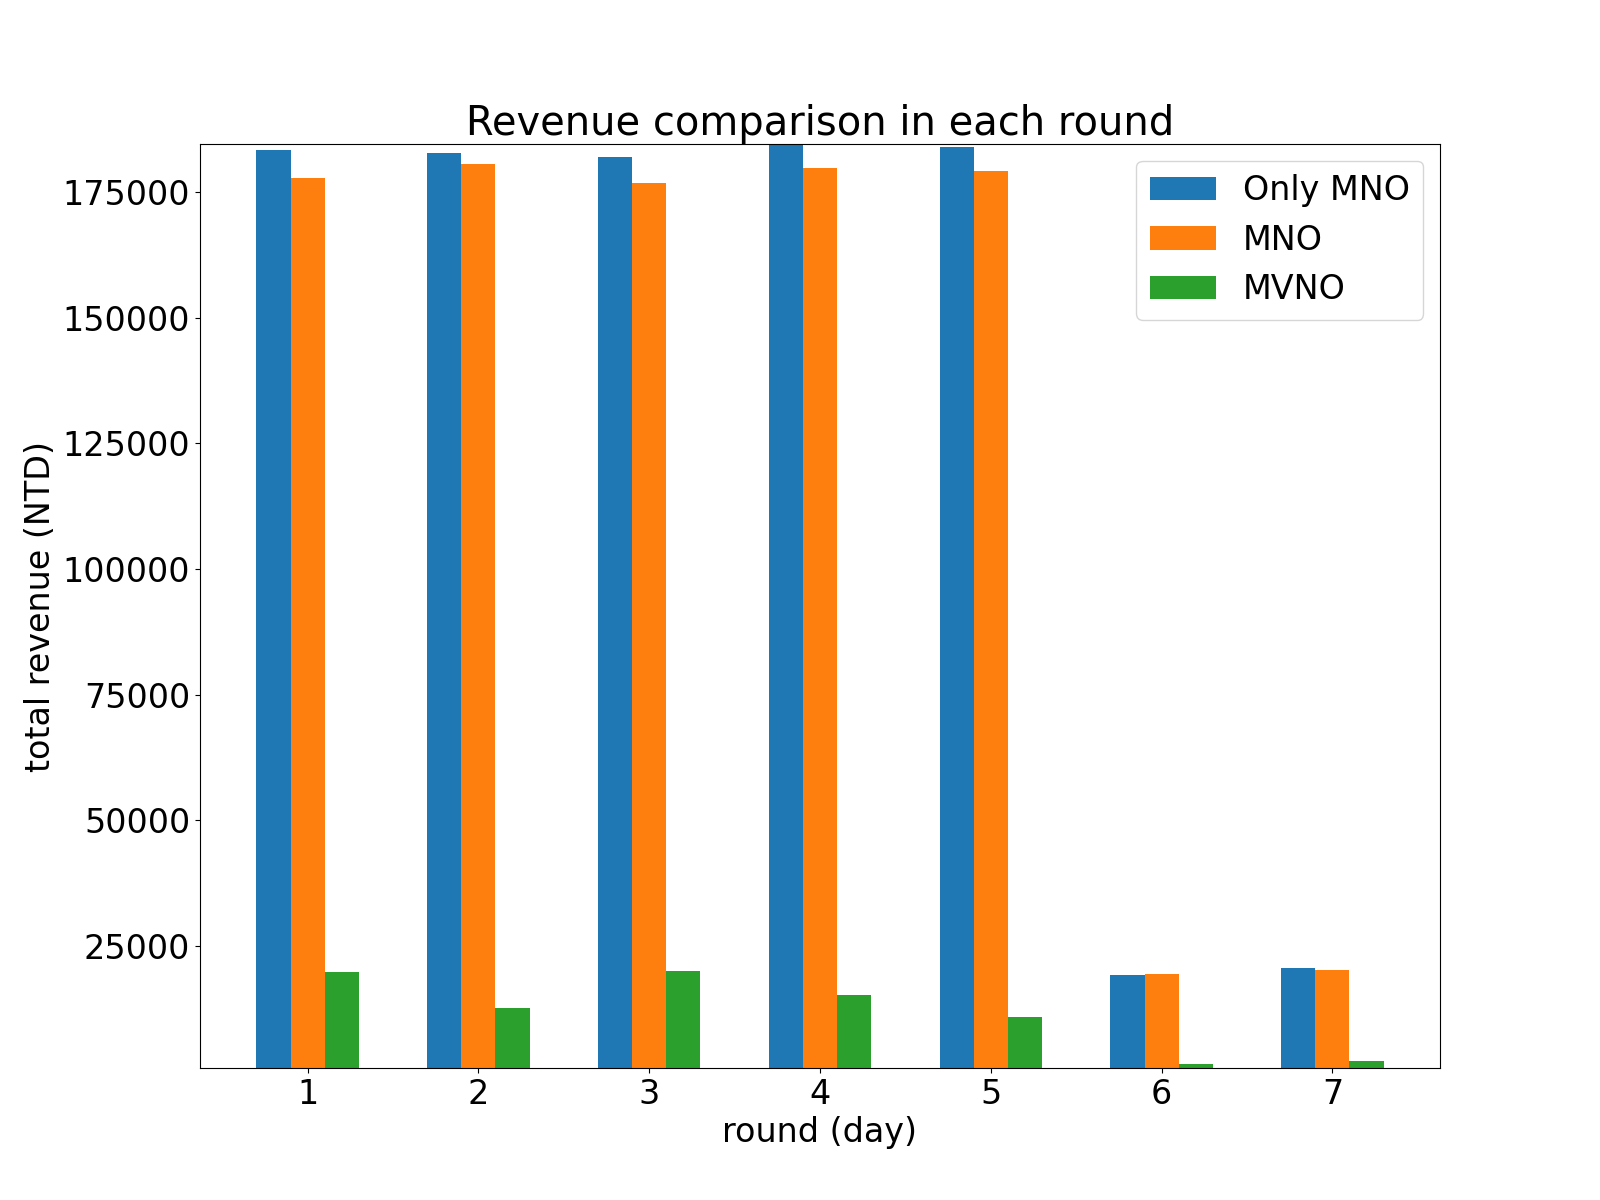
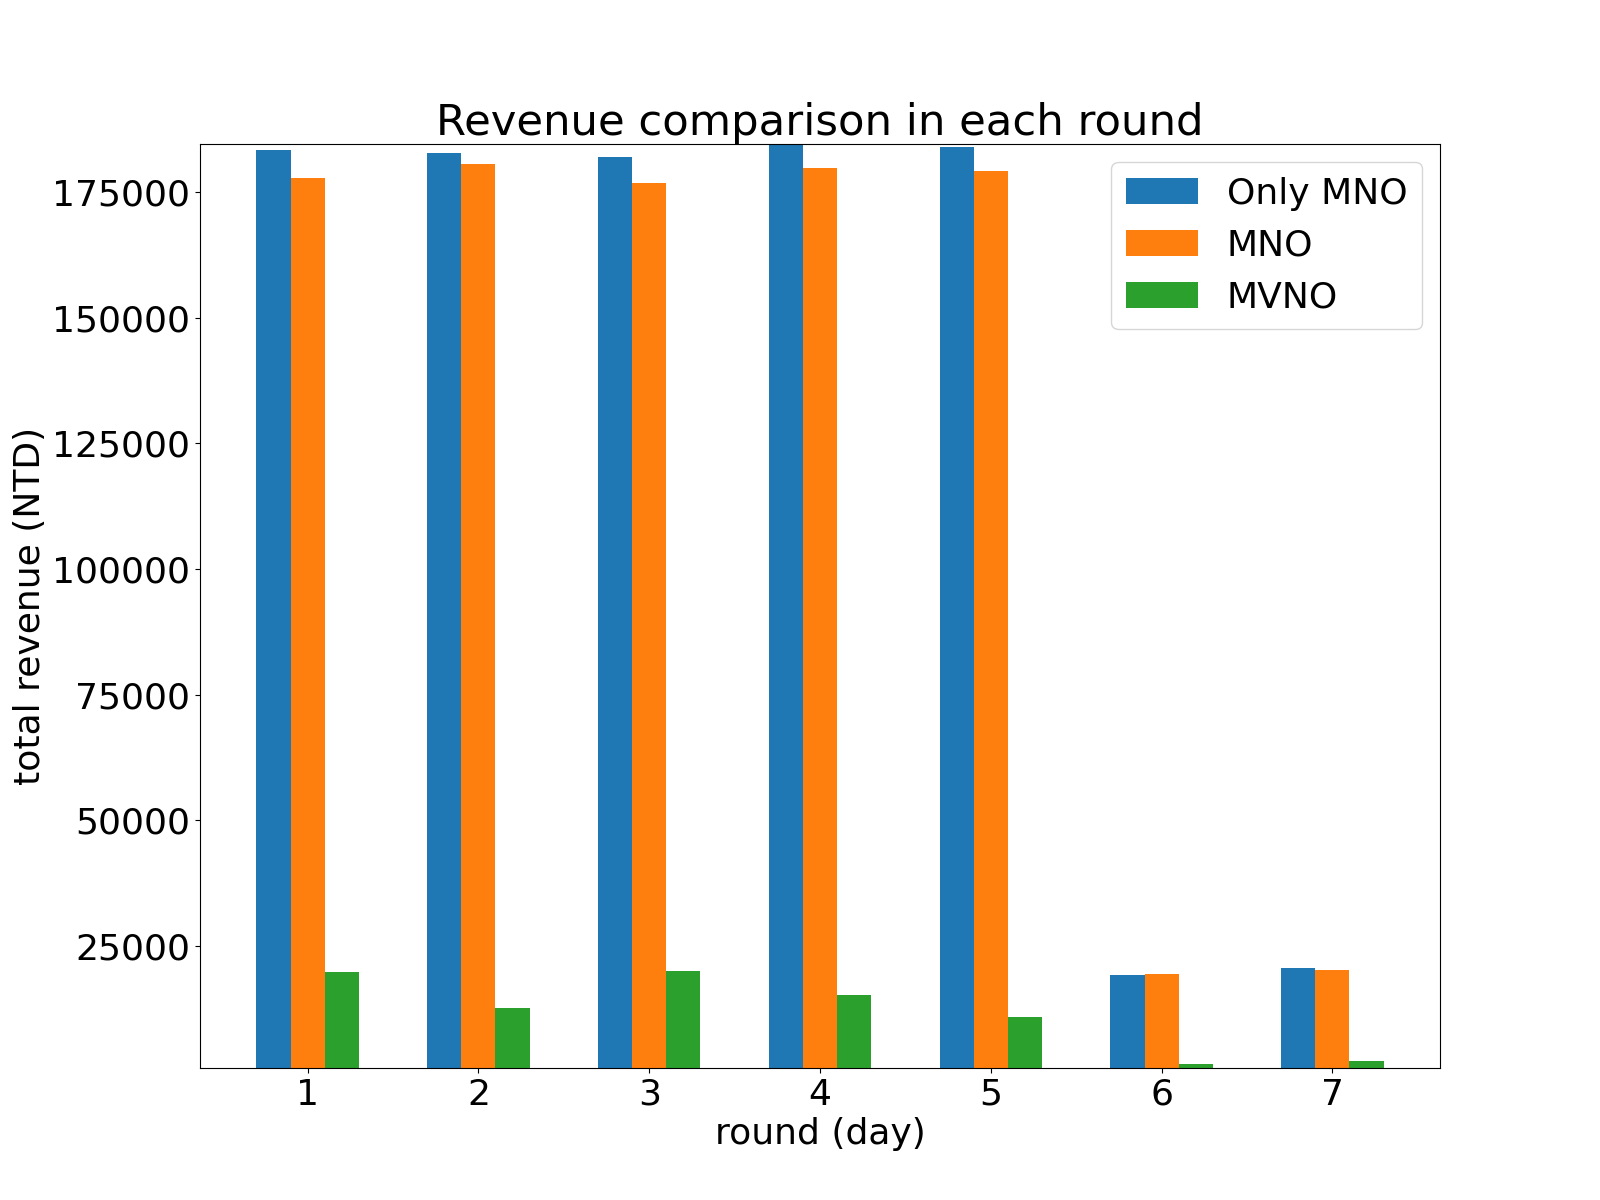
Bigger figure font size

diff --git a/parameters.py b/parameters.py
@@ -42,7 +42,7 @@ _theta = 0.2
 delta = 0.5
 _lambda = 0.7
 _mu = 0.9
-expected_task_num = 30
+expected_task_num = 3
 
 # task deployment
 _gamma = [

diff --git a/plot_metrics_compare.py b/plot_metrics_compare.py
@@ -4,7 +4,7 @@ import matplotlib.pyplot as plt
 import os
 
 plt.rcParams.update({
-    'font.size': 24,
+    'font.size': 26,
 })
 
 data = []
